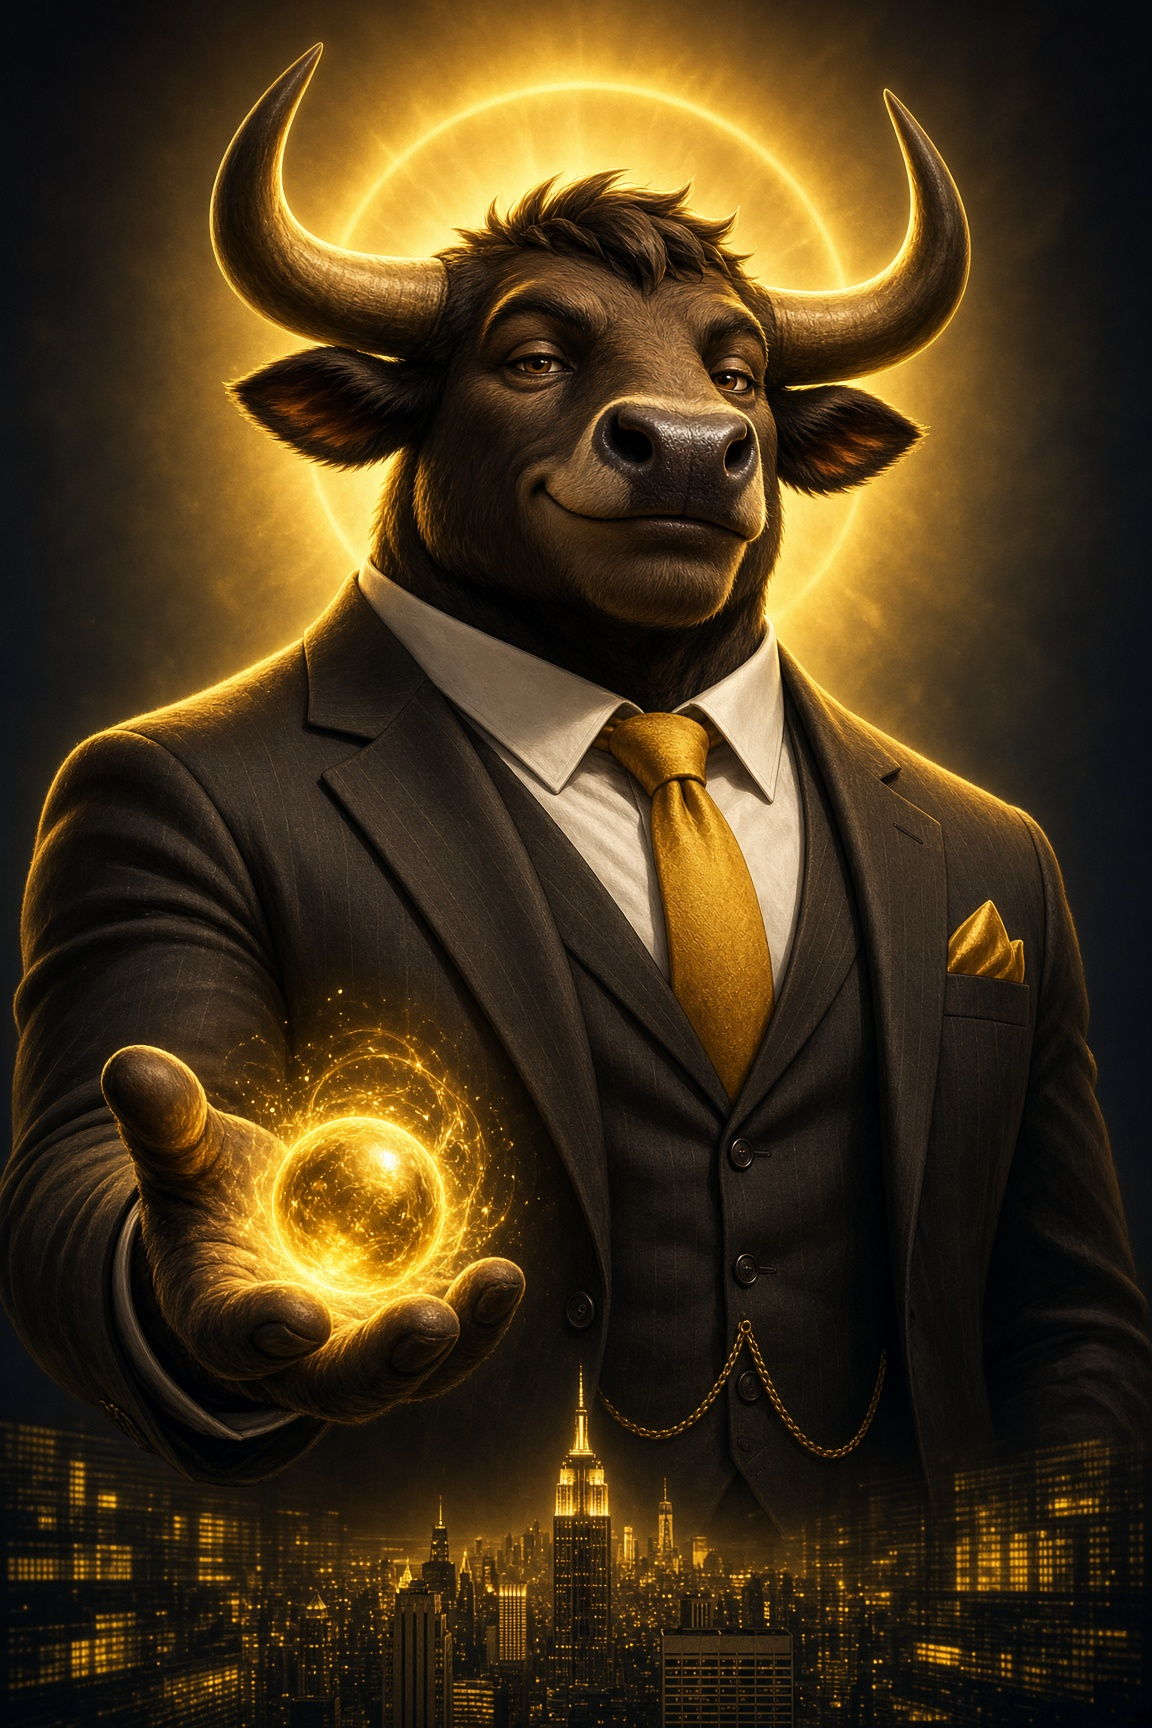
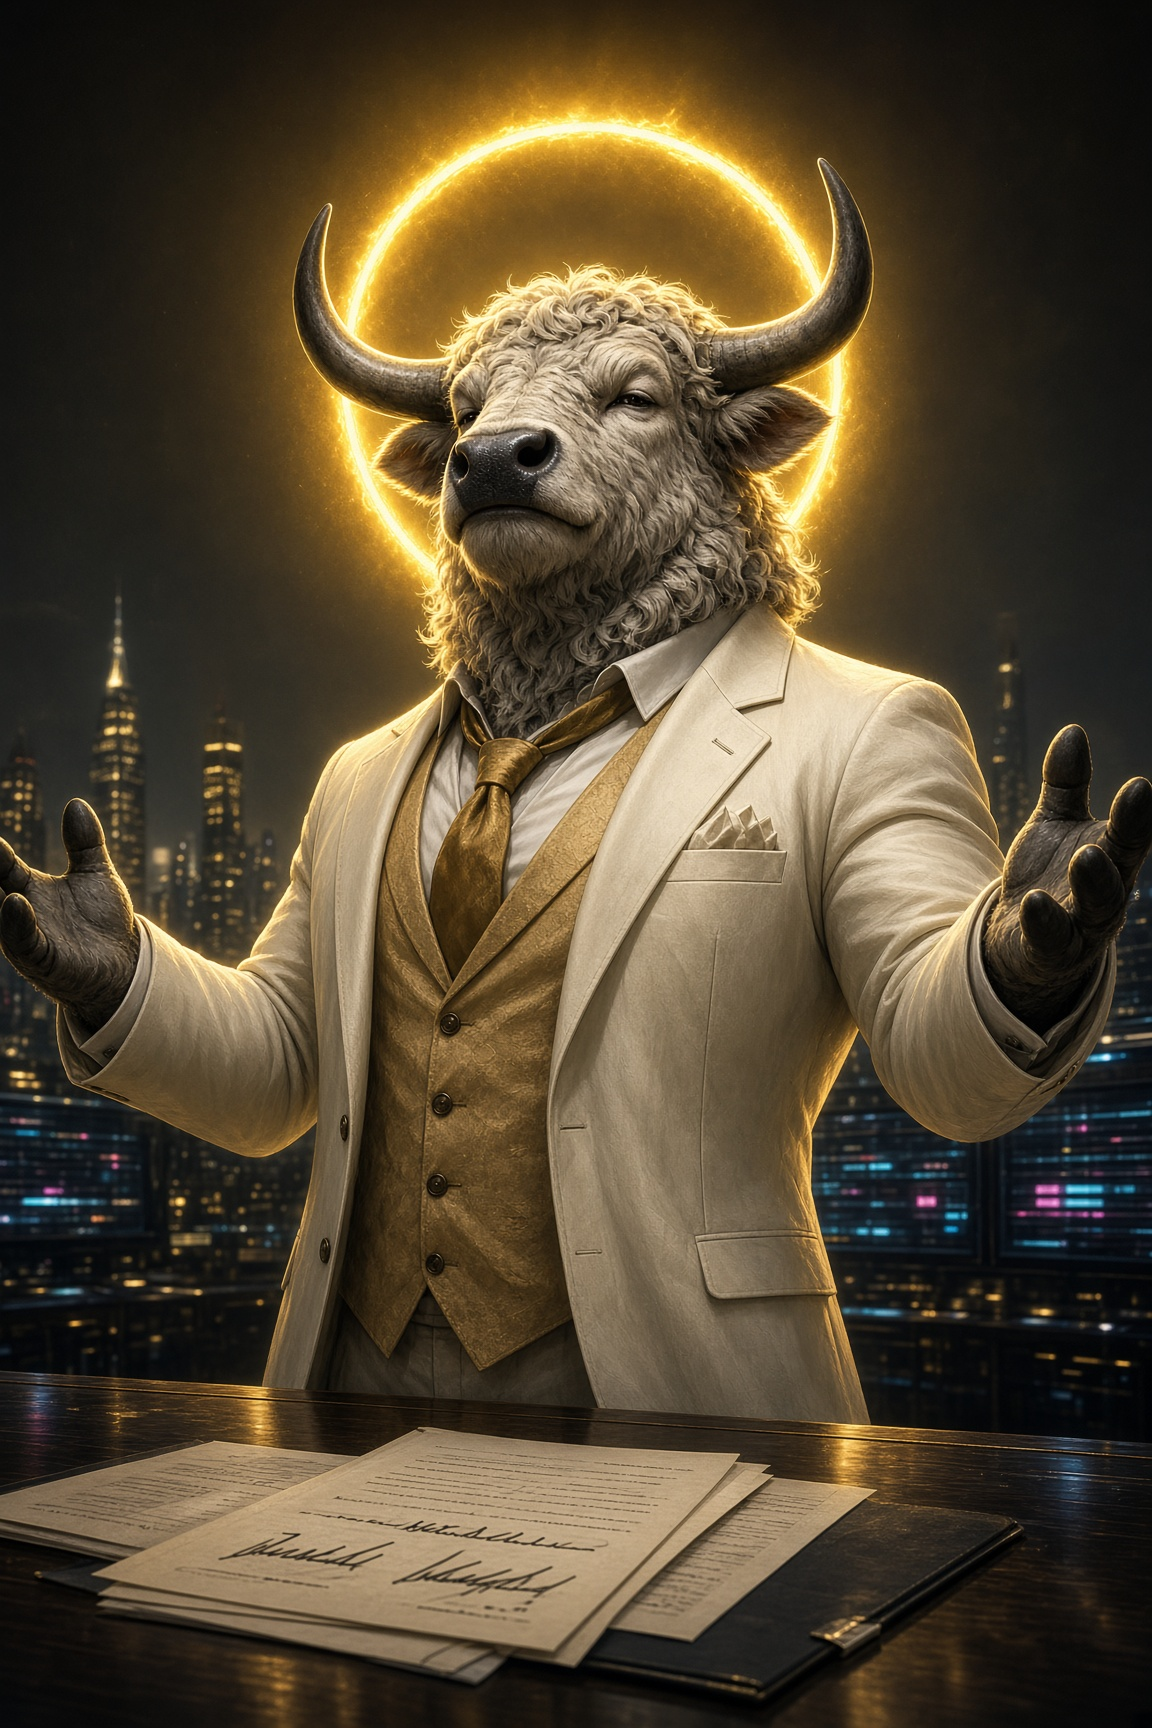
Verify production migrations; wire the regenerated Angel Bull
Migration 0012 was already applied to production — session 32's "not yet
applied" caveat had gone stale, the same way session 18 caught the 0007
one. Verified directly against _migrations rather than trusted, along
with the rest of the stored data: all of 0001-0012 applied, 24
card_editions all still known to the engine, 65 card_instances with 0
orphans, both saved decks exactly 30 cards with no unknown ids. 0012 was
a data no-op anyway — no edition row exists for leverage_mandrill or
leverage_gorilla, so nobody owned a copy.

Also wires the regenerated Angel Bull, closing session 32's one real art
defect. The old art was near-indistinguishable from Seed Round: same
brown bull, same dark suit, same glowing gold egg at chest height. The
rewritten prompt landed on the first attempt — different breed, cream
suit, an actual halo, and no held object at all, which is the change
that fixed it, since both cards had been briefed as "a bull in a suit
holding a glowing golden object".

77/77 art still wired, no orphans. tsc clean, 59/59 engine, 40/40
client, vite build clean. No migration — no ids changed.

diff --git a/STATUS.md b/STATUS.md
@@ -1,6 +1,6 @@
 # FLOORWARS — Status
 
-### Last updated: 2026-09-22 (session 32)
+### Last updated: 2026-09-23 (session 33)
 
 ---
 
@@ -268,13 +268,13 @@ Started session 3 (accounts + decks) and extended this session (session 4) with 
 - **Cats came back exactly as briefed, and the Normies fix is fully vindicated.** The faction that was 9 grey-lit, desaturated, miserable-looking people (saturation 68 against 126–188 elsewhere) is now warm-lit cats against cool violet: **grey is the cardigan, not the light.** Steady Paw, Old Alley Cat (down to the torn ear) and Adaptive Siamese (three monitors literally flipping red→green behind the twist) all hit their briefs precisely. Doc order held for all nine.
 - **The whole roster is wired: 77/77**, every faction complete, art files and `cardArt.ts` keys matching exactly with no orphans and no gaps. This also closed the long-standing filename mess flagged since session 29 — the Neutral and Tokens folders used spaces and mixed case (`Audit Trail.jpg`, `Badge.jpg`, `Puppy.jpg`) where `cardArt.ts` keys on snake_case ids; all renamed. `Badge.jpg` maps to `bodyguard_badge`.
 - **`Tadpole` kept as generated** — the user accepted it rather than regenerating, so it is no longer flagged.
-- **Two optional improvements remain, both wired and both the user's call, neither blocking:** `Angel Bull` is still a near-duplicate of Seed Round (prompt already rewritten to force divergence on breed, suit colour, halo and pose), and **`Steadfast Tabby` rendered its panicking bystanders as humans** — the only humans left anywhere in the cast now that all six factions are animals. Worth a one-line prompt fix ("other *cats*, not people") whenever either gets regenerated.
+- **Two optional improvements were left open here; `Angel Bull` is now closed (regenerated and wired session 33, see below).** ~~`Angel Bull` is still a near-duplicate of Seed Round (prompt already rewritten to force divergence on breed, suit colour, halo and pose)~~, and **still open:** **`Steadfast Tabby` rendered its panicking bystanders as humans** — the only humans left anywhere in the cast now that all six factions are animals. Worth a one-line prompt fix ("other *cats*, not people") whenever either gets regenerated.
 - **No migration** — no ids changed. `tsc` clean, 40/40 client tests, `vite build` clean.
 
 **Bulls art done (session 32) — 10/10 wired, and all four of session 28's flagged faults are fixed.** Files arrived numbered `1.jpg`–`10.jpg` in a folder typo'd `Bullds/` (renamed to `Bulls/`). Doc order held cleanly this time, all ten — still verified by opening each image rather than assuming, since the Bears and Apes batches both drifted.
 
 - **The four Crypto Bros regens flagged back in session 28, never done until now, all landed.** `Unicorn Bull` is in a business suit with no armour (was a generic fantasy knight in plate); `Compound Brahman` has the elevated-platform-with-followers staging that makes a Legendary read (was a static bust portrait); `Whale Longhorn` faces camera in visible suit and gold chain (was a back-turned hoodie silhouette); and **`Pump Signal` is finally not green** — it had rendered Frogs-green twice, was rewritten in v4 *and* v5, and never regenerated until this batch. The explicit "no green, that's the Frogs' colour" negative constraint worked on the first attempt after it was added.
-- **One real defect: `Angel Bull` is a near-duplicate of `Seed Round`** — same brown bull, same dark suit, same glowing gold sphere held at chest height, near-identical framing. Only the hooves differ (both cradling vs one extended). This is the cast-variation failure that plagued the human factions, reappearing *within* one faction. Root cause is the prompt: both cards described "a bull in a suit holding a glowing golden object" and nothing forced them apart. Rewritten to remove the held object entirely and separate them on breed, suit colour, halo and pose. Wired as-is for now since it beats a blank card; **regen recommended**.
+- **One real defect: `Angel Bull` is a near-duplicate of `Seed Round`** — same brown bull, same dark suit, same glowing gold sphere held at chest height, near-identical framing. Only the hooves differ (both cradling vs one extended). This is the cast-variation failure that plagued the human factions, reappearing *within* one faction. Root cause is the prompt: both cards described "a bull in a suit holding a glowing golden object" and nothing forced them apart. Rewritten to remove the held object entirely and separate them on breed, suit colour, halo and pose. Wired as-is for now since it beats a blank card; **regen recommended** — **done session 33, the rewritten prompt worked on the first attempt.**
 - **Minor, not flagged for regen:** `HODL Bull` grew a spurious second pair of horns out of the gold vault it is clutching. Reads fine at board size.
 - **Bulls needed new `cardArt.ts` entries**, not just file replacement — unlike Bears and Apes, this faction had never been wired (0/10). Client is now **58/58**: art files and `cardArt.ts` keys match exactly, no orphans, no gaps. Doggos 10/11 and Frogs 11/12 are the two summon-only tokens (Puppy, Tadpole), still unwired by design.
 - **No migration this time** — no ids changed, so this ships straight to `main`. `tsc` clean, 40/40 client tests, `vite build` clean.
@@ -285,7 +285,7 @@ Started session 3 (accounts + decks) and extended this session (session 4) with 
 - **`Blown-Out Chimp` flagged, not sent back.** Grok read "hollowed-out" literally: the chest is eroded through and the eye glows red, so it reads undead/horror rather than financially wiped out — the same register the user rejected on the Stop-Loss bear trap. Wired as-is since it is better than no art, and left for the user's call rather than regenerated unilaterally.
 - **The two cards session 29 measured as unreadable black rectangles are fixed.** Slow Burn and Short Position both sat under 14 mean luminance as Degens; both now read clearly at board size.
 - **Verified:** 59/59 engine, 40/40 client, **129/129 server against a fresh Postgres container with all 12 migrations applied from empty** — so `0012` is proven from scratch, not just as a patch. `tsc` clean across all three packages; 48 art files, 48 `cardArt.ts` keys, no orphans and no gaps.
-- **Migration `0012` is not yet applied to production.** It must run before the next deploy, or the renamed template id will not resolve for any owned copy or saved deck.
+- ~~**Migration `0012` is not yet applied to production.**~~ **Applied and verified (session 33)** — it is in `_migrations` alongside all of 0001–0012. Session 32 wrote this caveat and it went stale the same way session 18 caught the `0007` one; verified directly against the production table rather than trusted. **It was also a data no-op**: `card_editions` holds no row for `leverage_mandrill` *or* `leverage_gorilla`, so nobody owned a copy and no deck contained one — the rename had nothing to move.
 
 **Also session 31 — every creature card renamed to carry its species (`grok-card-prompts.md` v8, migration `0011`).** The user spotted that the recast changed the species in the art but left the names pointing at humans — a bear cub still called "Junior Dev". Their own signed-off factions settle it: **17 of 17 Doggos and Frogs creature names contain the species** (Shield Pup, Moon Dog, Glitch Toad, Deep Croak…), against 2 of 30 in the recast factions. That convention is a large part of why those two read as a real TCG.
 
@@ -368,6 +368,26 @@ The full system (rarity ladder, editions, serial numbers, duplicate-protection/c
 # 8. What's Next
 
 No fixed roadmap beyond the immediate next step — this project is being driven conversationally, one milestone at a time, working autonomously and only surfacing genuine decisions.
+
+**Session 33 (2026-09-23) — verified production rather than trusting this file; nothing was broken, and nothing needed building.** Picked up from "where did we get to last session," which surfaced session 32's open caveat that migration `0012` had not been applied to production. It had been. Same shape as session 18: **the caveat was stale, and the session's real output is that this file no longer says something false.**
+
+- **Checked the deployed halves first, before touching the database.** Railway deploy `a2fbfd6f` succeeded 2026-09-22T18:34Z from `main`, and the live Vercel bundle (`/assets/index-pEbGTfcB.js`) contains `leverage_gorilla` 5× and `leverage_mandrill` 0× — so the code half of the rename was definitely live, which is what made a missing `0012` worth chasing.
+- **The blast radius would have been quiet, not loud** — worth writing down, because "it 500s" was the wrong mental model. A stale `leverage_mandrill` edition returns collection counts under a key the client does not know (card silently absent), and a saved deck holding it fails `validateDeck`, at which point `createMatchServer.ts:115` substitutes the default deck without telling anyone. Session 25's `0009` incident was a 500 because a whole *column* was missing; a stale *row* degrades silently instead.
+- **Production is fully consistent.** All of `0001`–`0012` in `_migrations`; **24 `card_editions`, every one a template id the engine still defines; 65 `card_instances` with 0 orphans; both saved decks exactly 30 cards with no unknown ids.** So `0010`/`0011`/`0012`'s renames all landed cleanly against real data.
+- **`0012` was a data no-op anyway** — there is no `card_editions` row for `leverage_mandrill` *or* `leverage_gorilla`, so nobody owned a copy and no deck contained one. The migration was still right to write; it just had nothing to move.
+- **Session 32's 77/77 art claim independently verified**: 77 files in `client/src/assets/cards/`, 77 imports, 77 `CARD_ART` keys, no orphans and no cards missing art. 59/59 engine and 40/40 client tests green. (When re-counting, note `cardArt.ts` mixes `key: value` entries with ES6 shorthand — a naive `^  key:` grep misses the shorthand ones and undercounts by 5.)
+- **Observation, not a finding:** all 4 production accounts have `starting_faction = null`. Consistent with them being pre-`0009` test wallets that never ran the picker; flagged only so a future session does not read it as fresh breakage.
+- **The tunnel command is blocked by the harness's auto-mode classifier** (`railway connect Postgres --tunnel-only` → *Sensitive Remote Exec*), and Postgres has no public TCP proxy, so there is no other route in. Same class of guardrail session 19 hit on the TLS revert. **Workaround that works: the user opens the tunnel in their own terminal and hands over the connection string.** Read-only inspection and a rolled-back dry run were scripted against it (session 31's pattern) before anything would have been written.
+- **A script living outside the repo cannot resolve `pg`** — import it by absolute `file:///` path to `node_modules/pg/lib/index.js`, or it dies with `ERR_MODULE_NOT_FOUND` before reaching the database.
+
+**Also session 33 — `Angel Bull` regenerated and wired; session 32's one real art defect is closed.** The regenerated file turned up as an unexplained working-tree change to `branding/assets/Cards/Bulls/angel_bull.jpg` while checking the migration — caught only because `git diff --stat` was read rather than skimmed.
+
+- **The rewritten prompt worked on the first attempt, and it diverges on every axis it was rewritten to force.** Old `Angel Bull` and `Seed Round` were near-indistinguishable: same brown bull, same dark suit over an open collar, same glowing gold egg cradled at chest height, down to a matching gold watch and gold pocket square. The regen is a **pale cream curly-coated breed** in a **cream suit with a gold waistcoat**, with an actual **halo ring** behind the head, **no held object at all** (open, empty, spread hands), staged forward across a desk of signed term sheets. It also picks up warm-on-cool separation from the blue trading screens behind — the session-29 rule.
+- **Removing the held object is what actually fixed it.** Both cards had been briefed as "a bull in a suit holding a glowing golden object", so breed and suit tweaks alone would have left the silhouette identical. The lesson generalises: divergence has to be forced on *pose and props*, not just palette.
+- 1152×1728, exactly 2:3, on convention. Still **77/77** — 77 files, 77 imports, 77 `CARD_ART` keys, no orphans. `tsc` clean, 40/40 client tests, `vite build` clean. No migration (no id changed).
+- **Still open, unchanged:** `Steadfast Tabby` renders its panicking bystanders as **humans** — the only humans left anywhere in the cast now that all six factions are animals. One-line prompt fix ("other *cats*, not people") whenever it is next regenerated.
+
+**Open question raised, not acted on:** this is now the second migration to sit unapplied behind live code (`0009` across sessions 23–25, causing real 500s; `0012` here, which turned out fine). Nothing runs migrations on boot — `runMigrations` is called only from `runMigrate.ts`, by hand. Whether the server should migrate on deploy is the user's call and was explicitly offered, not assumed.
 
 **Session 25 (2026-09-16) — two real bugs the user reported ("cards still look shit," "new wallet gets a no-faction error"), both root-caused and fixed rather than guessed at.**
 - **The card frame redesign was real and correct, it just never shipped.** Session 24's entire card-frame/frame-art/gem-icon/tap-to-inspect work (`frameArt.ts`, `StatIcon.tsx`, `CardInspectOverlay.tsx`, the `CardFace.tsx`/`styles.css` rewrite) was still sitting as an uncommitted local working-tree diff — `origin/main` was still at `bafa834`, so Vercel had been serving the old cramped placeholder-frame build the whole time, which is why it still looked unfinished live. Re-verified (`tsc`/`vitest` 40/40/`vite build` all clean) and committed/pushed (`7a6fd8b`) so Vercel actually redeploys with it.
